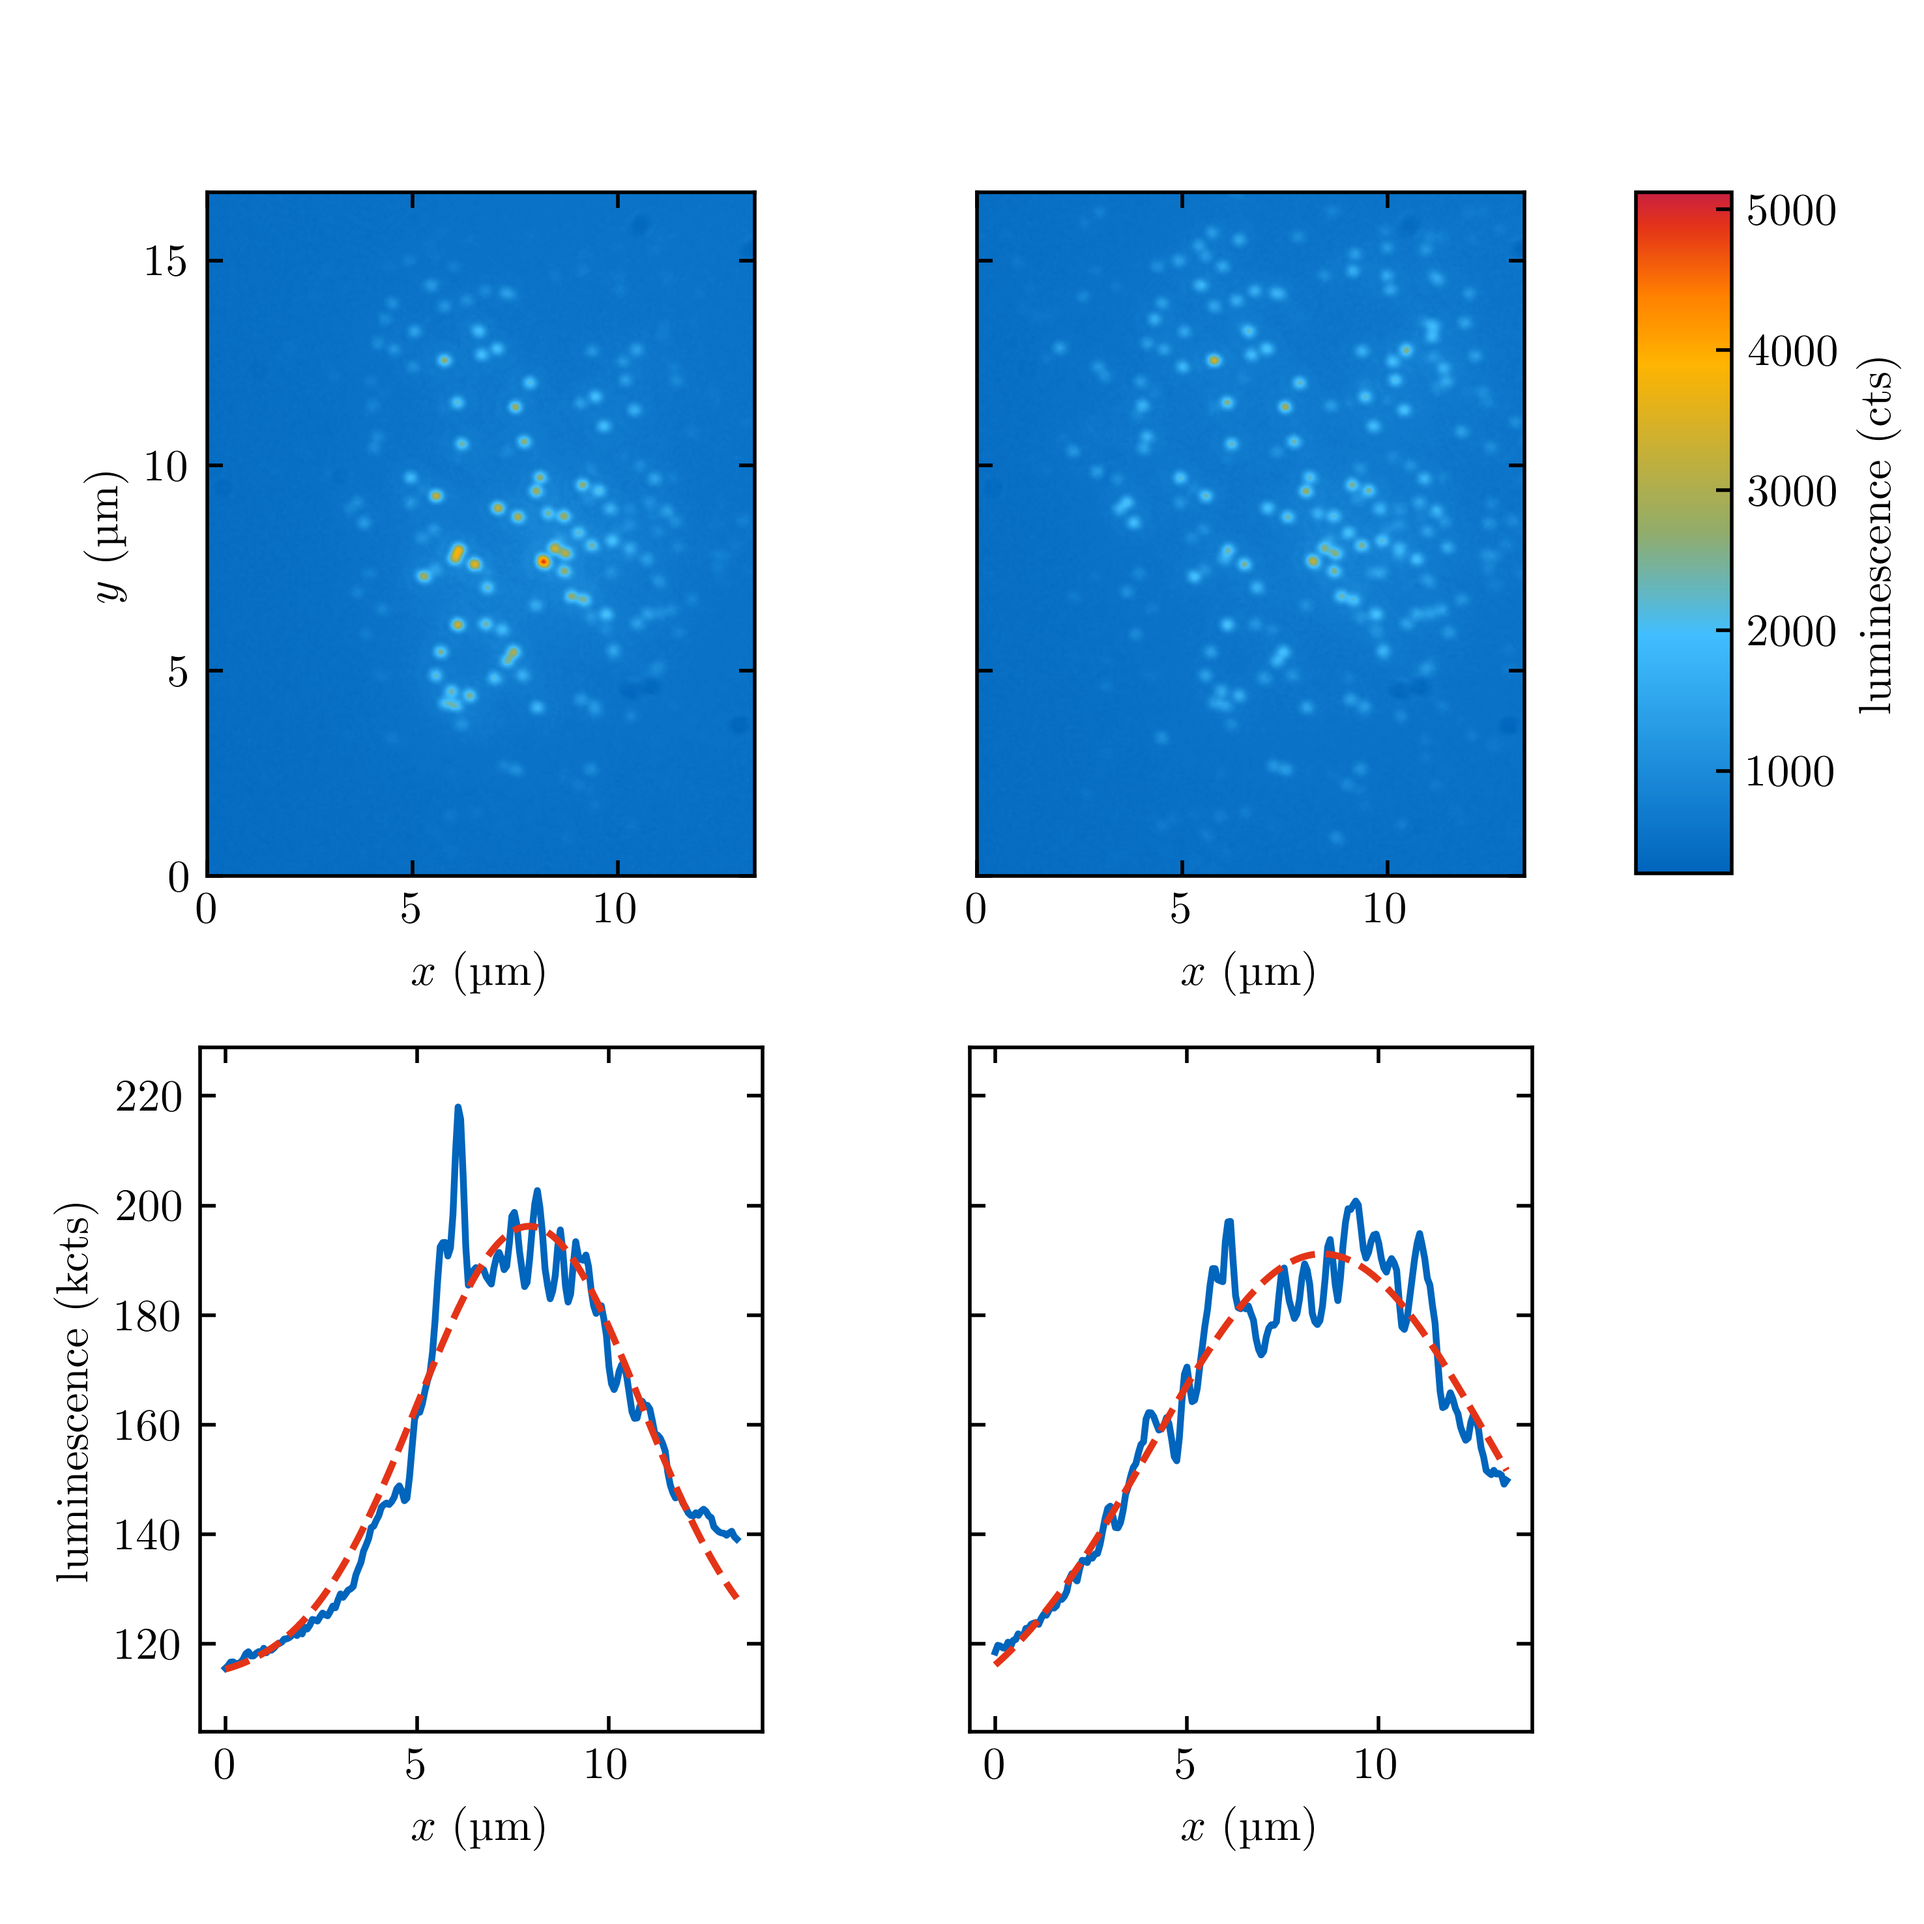
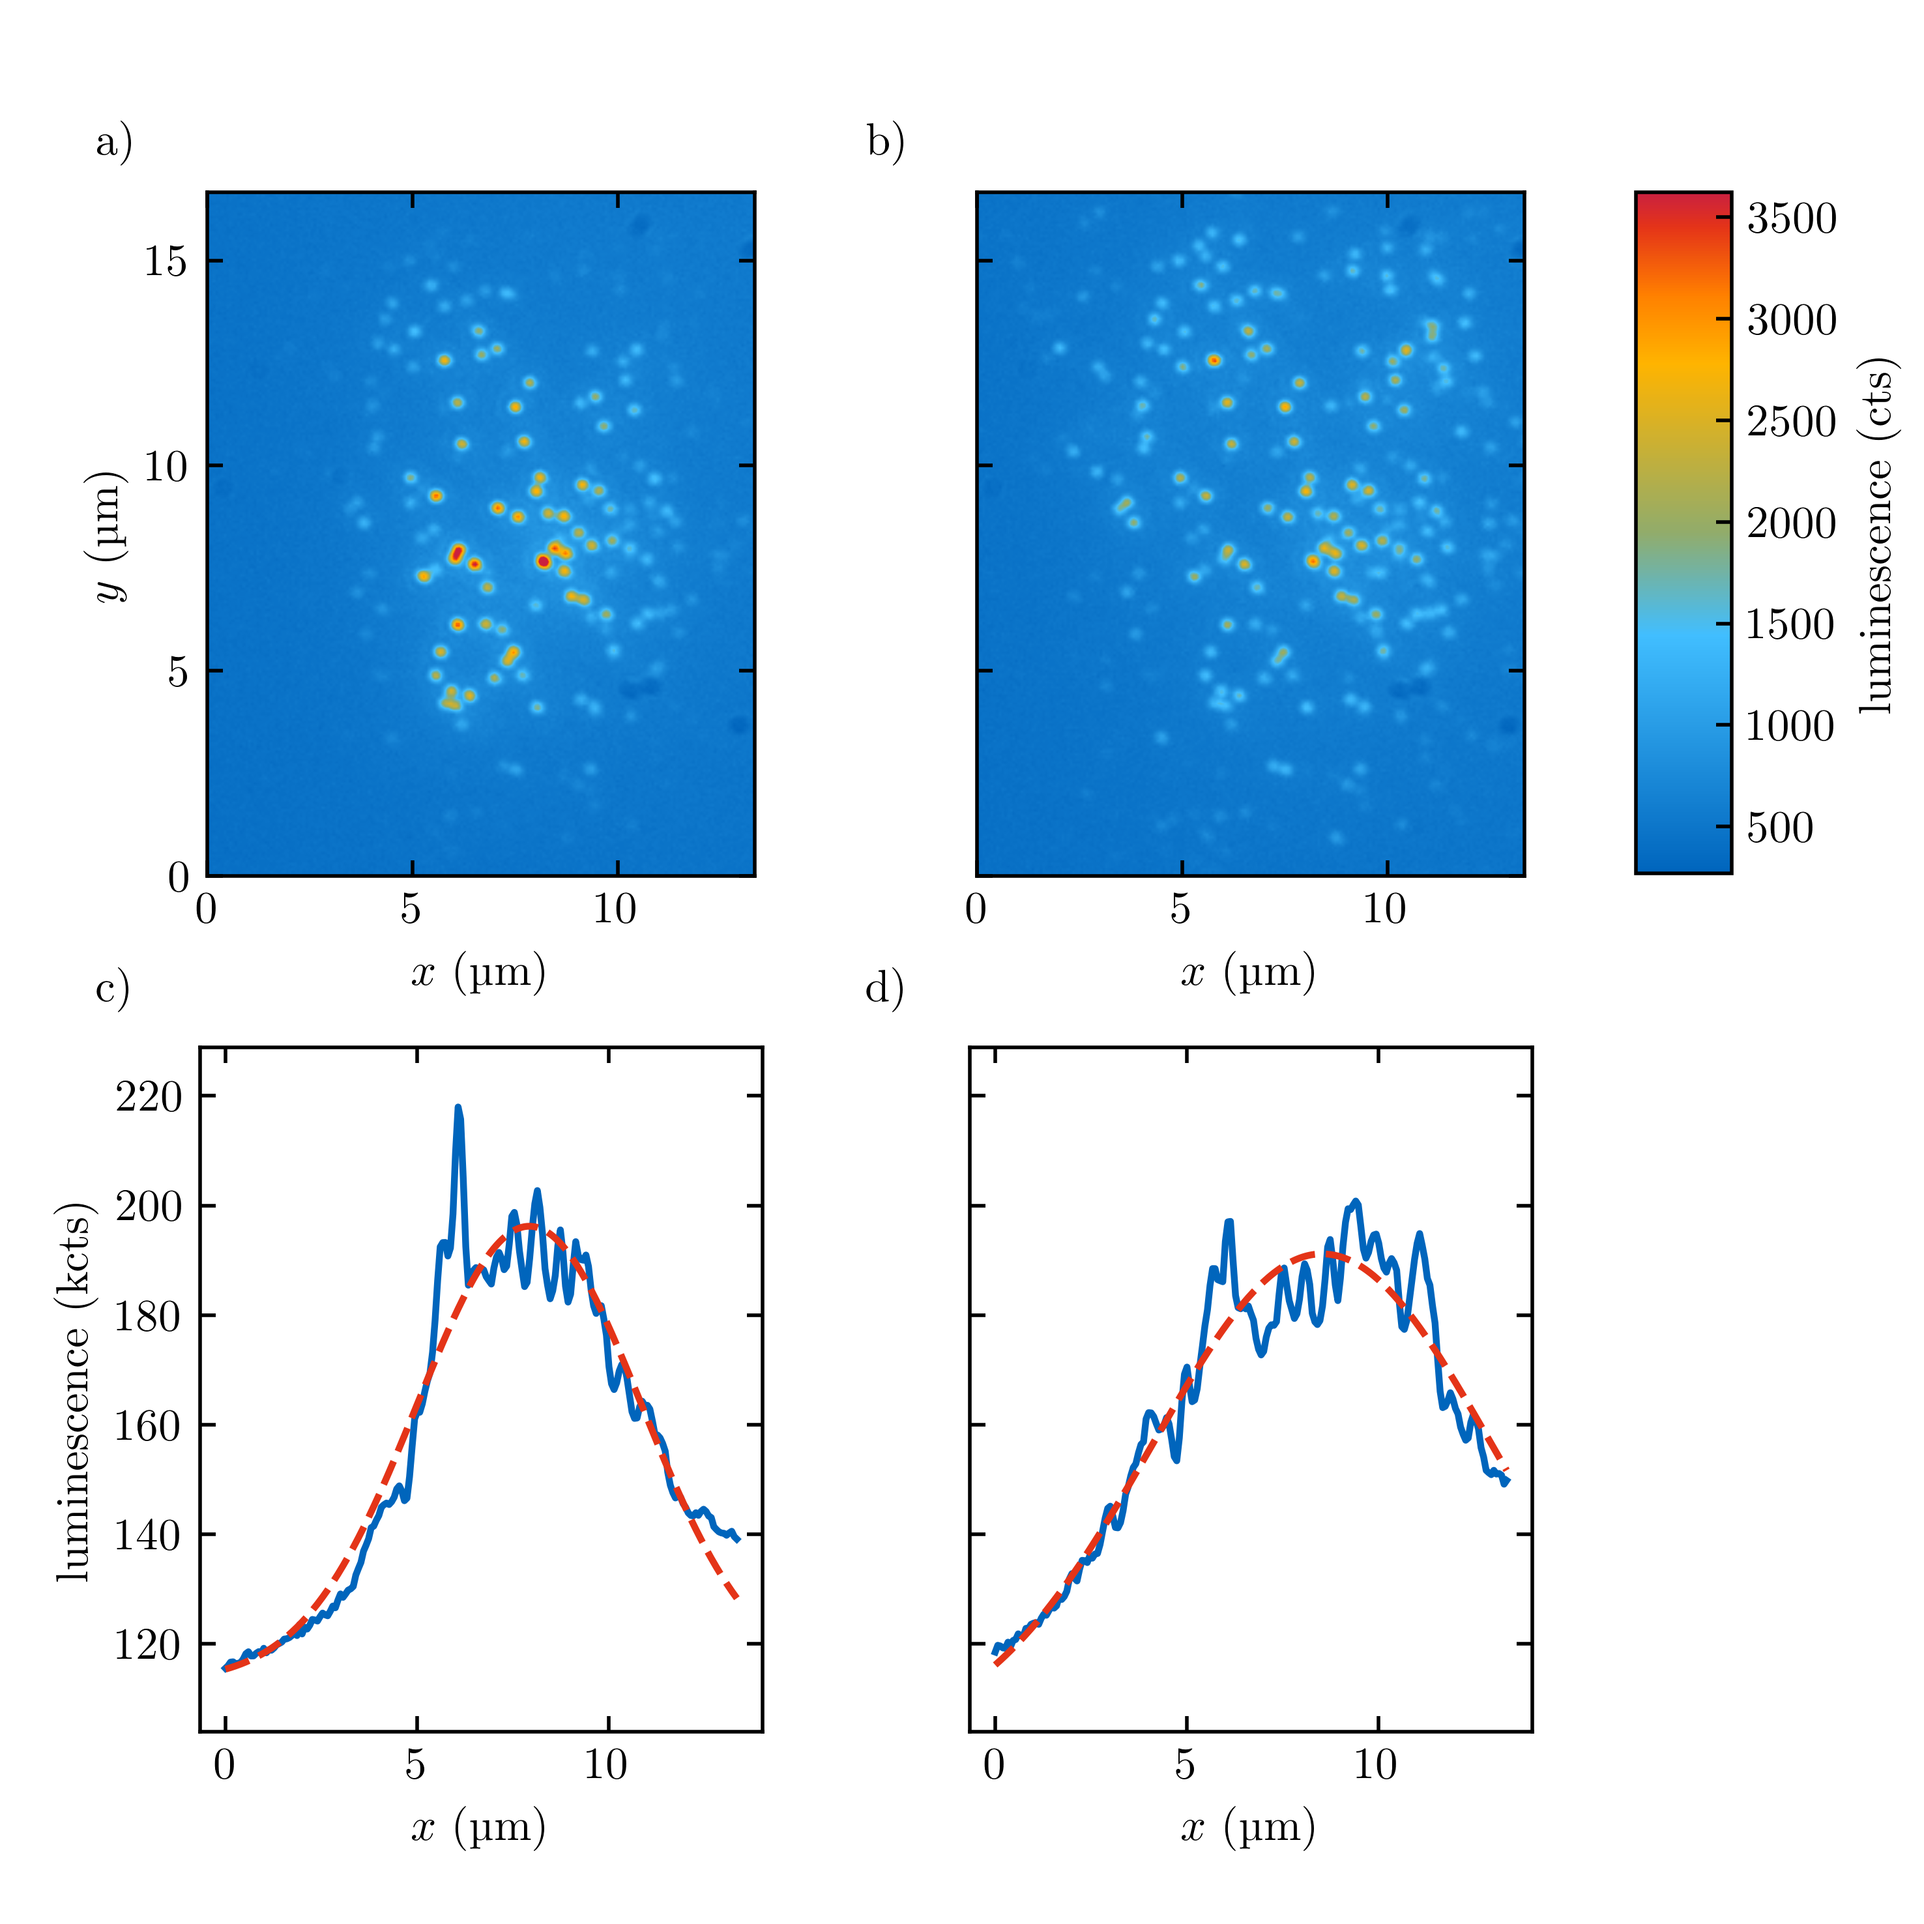
chapter5/beam_comparison
- added figure enumeration

diff --git a/images/chapter_5/beam_comparison.py b/images/chapter_5/beam_comparison.py
@@ -25,6 +25,7 @@ class BeamComparison:
         self.__imshow_both_confocal_scans()
         self.__add_colorbar()
         self.__plot_both_projections()
+        self.__add_figure_enumeration()
         plt.savefig('beam_comparison.png', dpi=500)
 
     @staticmethod
@@ -51,7 +52,7 @@ class BeamComparison:
 
     def __imshow_confocal_scan_single_axis(self, axis_index, data):
         vmin, vmax = self.__define_min_max_of_raw_data()
-        cam_imshow(data, self.axes[0][axis_index], vmin=vmin, vmax=vmax)
+        cam_imshow(data, self.axes[0][axis_index], vmin=vmin, vmax=vmax - 1500)
 
     def __define_min_max_of_raw_data(self):
         gaussian_min = self.gaussian_data.min()
@@ -113,6 +114,12 @@ class BeamComparison:
         print('sigma: ', fit_params[1])
         print('d_sigma: ', err_sigma)
         axis.plot(xs, self.__gaussian(xs, *fit_params), '--', color=tum_color(5))
+
+    def __add_figure_enumeration(self):
+        plt.figtext(0.05, 0.92, 'a)', figure=self.fig)
+        plt.figtext(0.45, 0.92, 'b)', figure=self.fig)
+        plt.figtext(0.05, 0.48, 'c)', figure=self.fig)
+        plt.figtext(0.45, 0.48, 'd)', figure=self.fig)
 
 
 if __name__ == '__main__':
